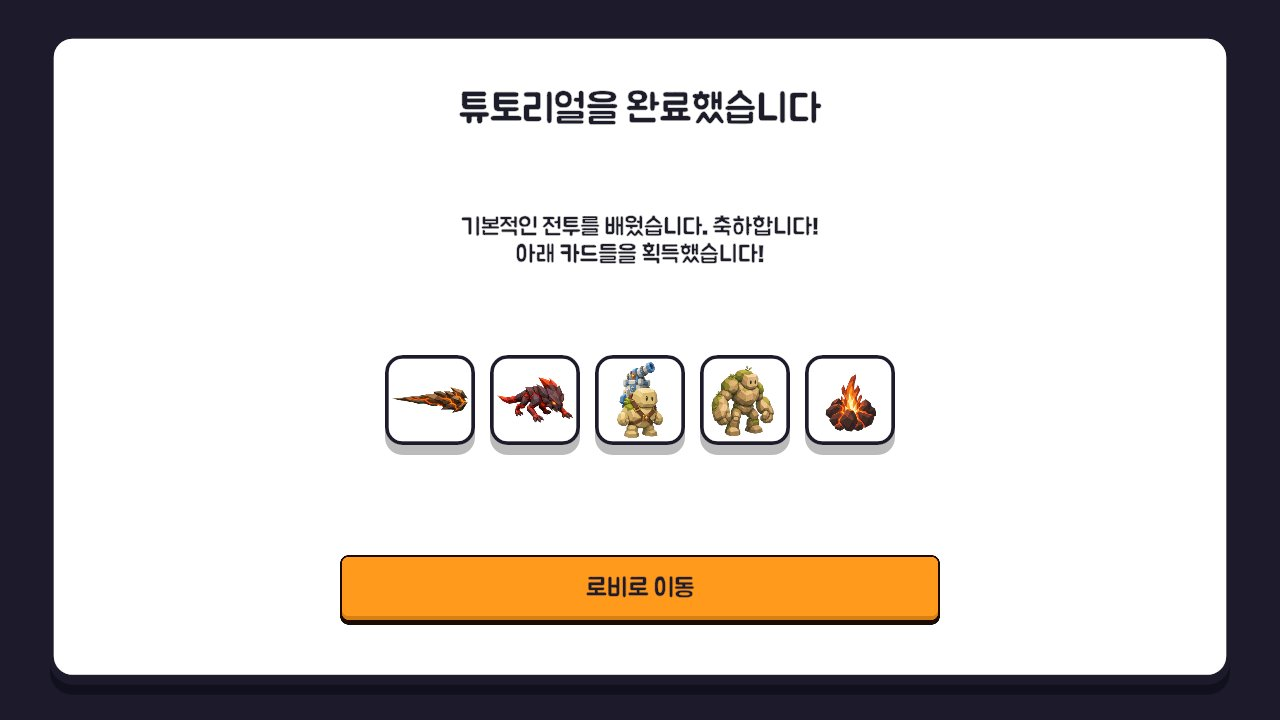
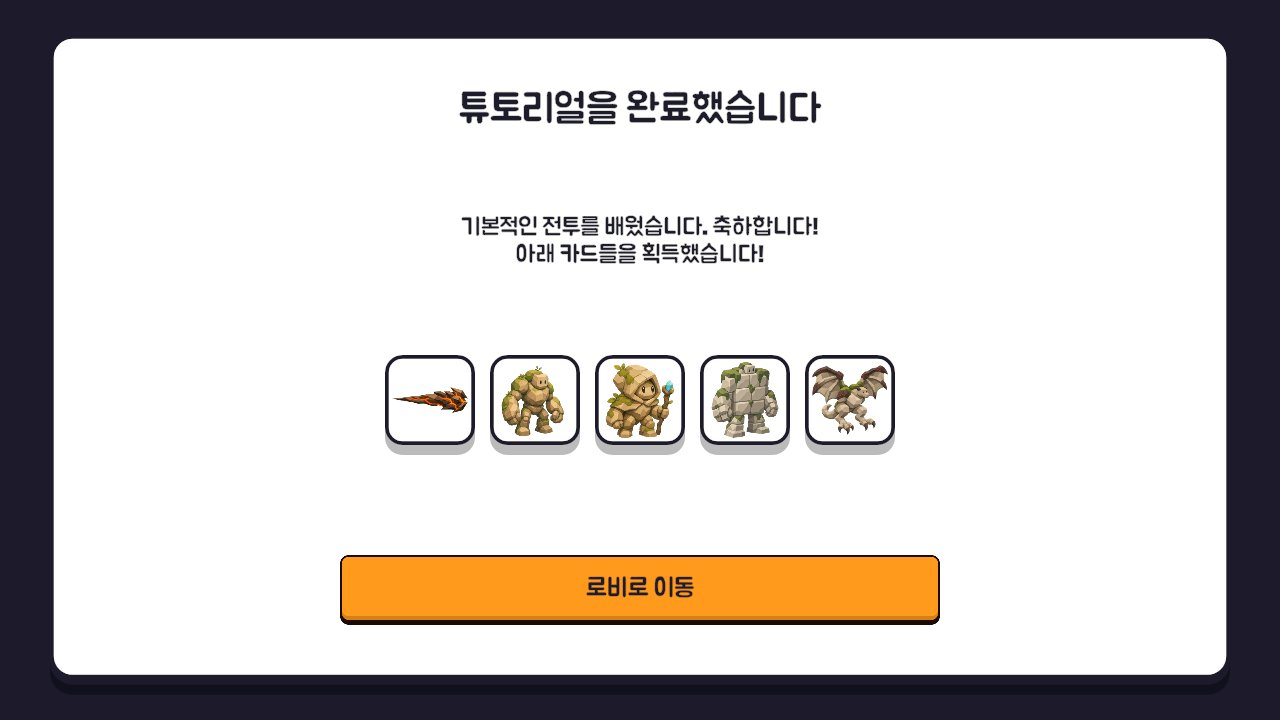
feat(tutorial): 시작 보상을 진영 실습 카드와 일치

Changed region(s): [[0.375, 0.4889, 0.6875, 0.6111]]

diff --git a/Assets/Tests/EditMode/FactionTutorialTests.cs b/Assets/Tests/EditMode/FactionTutorialTests.cs
@@ -99,14 +99,14 @@ namespace WordOnline.Tests
         }
 
         [Test]
-        public void PracticeRostersDoNotChangeTheStartingRewards()
+        public void StartingRewardsMatchTheFiveFactionPracticeCards()
         {
             Type cards = Runtime("FactionTutorialCards");
             string[] List(string field) => (string[])cards.GetField(field).GetValue(null);
             Assert.That(List("HellPractice"), Is.EqualTo(new[] { "fire_shot", "rock_golem", "rock_mage", "wall_golem", "stone_gargoyle" }));
             Assert.That(List("NaturePractice"), Is.EqualTo(new[] { "chain_lightning", "electric_spearman", "aqua_archer", "tree_golem", "thunder_spirit" }));
-            Assert.That(List("Hell"), Is.EqualTo(new[] { "fire_shot", "ember_spirit_swarm", "towerback", "rock_golem", "magma_explosion" }));
-            Assert.That(List("Nature"), Is.EqualTo(new[] { "chain_lightning", "water_slime_swarm", "vine_spirit", "tree_golem", "water_explosion" }));
+            Assert.That(List("Hell"), Is.EqualTo(List("HellPractice")));
+            Assert.That(List("Nature"), Is.EqualTo(List("NaturePractice")));
             foreach (string field in new[] { "HellPractice", "NaturePractice" })
                 foreach (string name in List(field).Where(name => !name.Contains("shot") && name != "chain_lightning"))
                 {

diff --git a/Assets/Scripts/TutorialScene/FactionTutorialPanel.cs b/Assets/Scripts/TutorialScene/FactionTutorialPanel.cs
@@ -79,9 +79,9 @@ namespace TutorialScene
 
     public static class FactionTutorialCards
     {
-        // 시작 보상은 실습용 카드와 별개다. 로비 지급표와 같은 구성을 유지한다.
-        public static readonly string[] Hell = { "fire_shot", "ember_spirit_swarm", "towerback", "rock_golem", "magma_explosion" };
-        public static readonly string[] Nature = { "chain_lightning", "water_slime_swarm", "vine_spirit", "tree_golem", "water_explosion" };
+        // 시작 보상과 실습은 같은 5종이다. DB V125의 1레벨 지급표와 맞춘다.
+        public static readonly string[] Hell = { "fire_shot", "rock_golem", "rock_mage", "wall_golem", "stone_gargoyle" };
+        public static readonly string[] Nature = { "chain_lightning", "electric_spearman", "aqua_archer", "tree_golem", "thunder_spirit" };
         // 실습 역할 순서: 슛, 근접, 원거리, 탱커, 공중.
         public static readonly string[] HellPractice = { "fire_shot", "rock_golem", "rock_mage", "wall_golem", "stone_gargoyle" };
         public static readonly string[] NaturePractice = { "chain_lightning", "electric_spearman", "aqua_archer", "tree_golem", "thunder_spirit" };

diff --git a/.plan/general/2026-11-09-starter-and-level-rewards.md b/.plan/general/2026-11-09-starter-and-level-rewards.md
@@ -1,0 +1,95 @@
+# 2026-11-09 — 진영 시작 카드와 레벨별 고정 보상표 적용
+
+- Date: 2026-11-09
+- GitHub Issue: Client #397 / Database #141 / Lobby #120
+- Status: 검증 완료, 기존 PR 반영
+
+## Goal
+
+시작 카드와 시작 덱은 실습과 같은 5종을 각 3장 지급한다.
+HELL: fire_shot, rock_golem, rock_mage, wall_golem, stone_gargoyle.
+NATURE: chain_lightning, electric_spearman, aqua_archer, tree_golem, thunder_spirit.
+사용자가 마지막으로 보낸 레벨업 보상표를 그대로 적용하며, HELL 15는 rock_golem,
+40은 crater_carrier다. rock_golem은 1·15레벨에 함께 등록한다.
+
+## Non-goals
+
+기존 계정의 카드·덱·이미 발급된 수령 원장·지급 상한·유닛 성능은 변경하지 않는다.
+튜토리얼 단계·손 안내·마법 체험 규칙도 유지한다. 공유 원본 DB를 변경하지 않는다.
+
+## Context / Constraints
+
+V121의 magic_id 단독 PK와 faction/magic 유일성은 동일 카드의 다중 레벨 등록을 막는다.
+모든 적용된 migration은 보존하고, 열린 Database #140(feature/139) 위 V125를 추가한다.
+모든 원격 이력과 main/magic-card 존재 여부에서 번호 충돌을 확인한다.
+Lobby는 #119(feature/118) 위 fix/120, Client는 기존 #398에 반영한다.
+실행 중인 로컬 로비를 중지한 후 같은 전용 체크아웃을 새 브랜치로 전환한다.
+
+## Approach (Checklist)
+
+- [x] **Step 0: Recon** 지급·덱 생성이 progression_magic_rewards를 공통으로 읽는 것을 확인했다.
+- [x] **Step 1: Implementation** V125에서 PK를 (faction,unlock_level,magic_id)로 바꾸고
+  기존 faction/magic 유일성을 제거한다. 정책 30행을 승인 표로 교체하고 모든 대상 마법의
+  PLAYER 등록을 STRICT 조회로 검증한다. 다른 사용자 데이터는 만지지 않는다.
+  HELL 레벨 5/10/15/20/25/30/35/40/45/50은 ember_spirit_swarm, meteor_shower,
+  rock_golem, magma_spirit, frenzy_totem, dragon_tower, earth_call, crater_carrier,
+  evil_ent, fire_lord_spirit다. NATURE는 water_slime_swarm, tornado_strike, life_tree,
+  vine_spirit, grass_generator, tide_call, overgrowth, storm_rider, vine_world, sea_serpent다.
+  Lobby eligibleMagics는 SELECT DISTINCT로 조인 중복을 제거한다. 가장 이른 해금 레벨,
+  카드 소유 상한, 레벨별 조회는 그대로 유지한다. Test-only Postgres fixture는 새 정책과 맞춘다.
+  Client 보상 배열을 새 5종으로 교체하고 실습 배열과의 일치를 검증한다.
+  기존 완료 팝업은 이 배열을 그대로 써서 새 카드의 간단 설명도 표시한다.
+- [x] **Step 2: Tests** 로컬 복제 DB에 V124·V125를 적용해 SQL 정책 30행, 시작 5종씩,
+  각 레벨 1종씩, rock_golem의 1·15행, FK·보유·덱 데이터 보존을 확인한다.
+  Lobby Postgres 테스트에서 다중 행 상자 후보가 한 번만 나오는지와 시작 지급 멱등성을 검증한다.
+  새 로컬 게스트 두 진영의 소유 카드·시작 덱 각 3장, 보상 API 1~50레벨을 승인 표와 비교한다.
+  HELL 계정을 실제 15레벨까지 올려 고정 보상 지급 후에도 rock_golem 3장 상한을 확인한다.
+  해당 카드가 3장 미만일 때 1·14·15레벨 상자 후보에 정확히 한 번씩 포함되는지 확인한다.
+  마이그레이션 전후 이미 발급된 미수령 원장·보유·덱 내용을 비교한다.
+  Unity MCP로 EditMode/PlayMode 보상·팝업 테스트와 새 완료 화면 렌더를 확인한다.
+- [x] **Step 3: Rollout / Rollback** 기존 DB#140와 Lobby#119 선행 체인을 보존한다.
+  호환 가능한 Lobby 중복 제거를 먼저 적용하고 V125, Client #398 순으로 적용한다.
+  새 DB·로비 draft PR을 열고 #398에 의존성을 연결한다. root pointer는 병합 후 갱신 대상이다.
+  Database #142, Lobby #121로 게시한다.
+
+## Validation
+
+- **Commands to run:** scripts/ci/validate-migrations.sh origin/feature/139,
+  test-env migrate(기존 로컬 복제 DB만), ./gradlew.bat test,
+  Postgres integration tests, Unity FactionTutorialTests/FactionTutorialPlayModeTests,
+  git diff --check, graphify update .
+- **Expected output:** 보상표 30행, 신규 진영별 5종×3장과 덱 일치, 두 진영 레벨 5~50 표 일치,
+  후보 중복·중복 지급 없음, 기존 계정 데이터 유지, 카드 설명 정상 표시.
+
+## Risks & Rollback
+
+- **Risks:** 새 시작 카드와 15레벨 rock_golem이 중복되지만 사용자 승인 표를 따른다.
+  기존 최대 3장 정책에 따라 이미 3장인 카드의 추가 보상은 보유량을 늘리지 않는다.
+  미수령 보상 원장에 이미 저장된 옛 보상은 그대로 둔다.
+- **Rollback steps:** 적용 후 DB는 기존 지급표를 복구하는 정방향 migration으로 처리한다.
+  신규 복합 PK를 예전 단독 PK로 되돌리려면 다중 레벨 행을 먼저 정리해야 한다.
+  Client/Lobby 코드는 각 기능 커밋을 revert할 수 있다.
+
+## Open Questions
+
+없음. 사용자가 최종 표의 분화구 운반수까지 그대로 적용하도록 지시했다.
+
+## Plan Review
+
+- FAST REVIEW: PASS. 15레벨 실제 지급·3장 상한, 1·14·15 후보 1회, 미수령 원장 보존 확인 추가.
+- MEDIUM REVIEW: PASS. 필요한 복합 PK와 DISTINCT 외 새 정책 계층은 추가하지 않는다.
+- Rejected feedback: 없음.
+- HEAVY REVIEW: PASS. 구현 차단사항 없음.
+
+## Verification Results
+
+- DB 정적 검사 통과. 원격 main/magic-card 브랜치는 없으며 전체 원격 이력에 V125 충돌 없음.
+- 기존 로컬 DB에 V124·V125 적용 완료. 기존 user_magics/decks/deck_cards 내용의 해시 동일.
+- Postgres 신규 보상표 통합 5개 통과. 신규 지급·덱·승인 표·최초 해금·추첨 중복·15레벨 상한과
+  V125 재실행 전후 기존 보유·덱·미수령 원장 보존을 검증했다.
+- 로비 전체 454개 중 450개 통과, 기존 무시 1개, 실패 3개. 성장 관련 41개는 모두 통과.
+  AppearanceChestPostgresIntegrationTest 1개와 QuestClaimPostgresIntegrationTest 2개 실패는
+  변경 전 55c9656와 V124까지만의 migration에서도 같은 결과를 재현했다.
+- 실제 로컬 게스트 두 진영에서 시작 5종×3장, 15장 시작 덱, 1~50레벨 보상 API와 재선택 멱등성 통과.
+- Unity MCP EditMode 9개·PlayMode 8개 통과. 새 10종의 보상 카드 설명과 완료 화면 렌더 2장을 확인했다.
+- WebGL 빌드와 공유 DB 적용은 수행하지 않았다. Graphify CLI는 없어 갱신하지 못했다.

diff --git a/.agents/docs/faction-tutorial.md b/.agents/docs/faction-tutorial.md
@@ -16,16 +16,17 @@ This decoded claim must never authorize a server operation or grant cards.
 ## Account and session state
 
 The progression API owns faction selection, starter ownership and the starter deck.
-`FactionTutorialCards.Hell` and `.Nature` describe the unchanged starting rewards
-and must stay aligned with Lobby's progression policy. `.HellPractice` and
-`.NaturePractice` describe the separate battle permissions in role order:
+`FactionTutorialCards.Hell` and `.Nature` describe the starting rewards and must
+match Database V125's level-1 policy. They now contain the same five magics as
+`.HellPractice` and `.NaturePractice`, which describe the battle permissions in role order:
 shot, melee, ranged, tank, flyer. HELL uses fire_shot, rock_golem, rock_mage,
 wall_golem, stone_gargoyle; NATURE uses chain_lightning, electric_spearman,
 aqua_archer, tree_golem, thunder_spirit. Keep these in sync with Rust tutorial
 HELL/NATURE arrays. HELL tries Meteor Shower only; NATURE tries Tornado Strike only.
 Keep the server's stage numbers and names stable: NEXT branches after shot and skips
 the other faction's trial, so each faction plays six lessons.
-Neither practice permissions nor completion grant those spells as rewards.
+The Meteor Shower and Tornado Strike trials do not grant those spells as rewards.
+Progression grants the five starting cards and deck at faction selection, before battle.
 
 The sixth lesson retains the wire stage `explosion` for compatibility, but now
 teaches flyers. Its hints and success text must describe aerial units, and its
